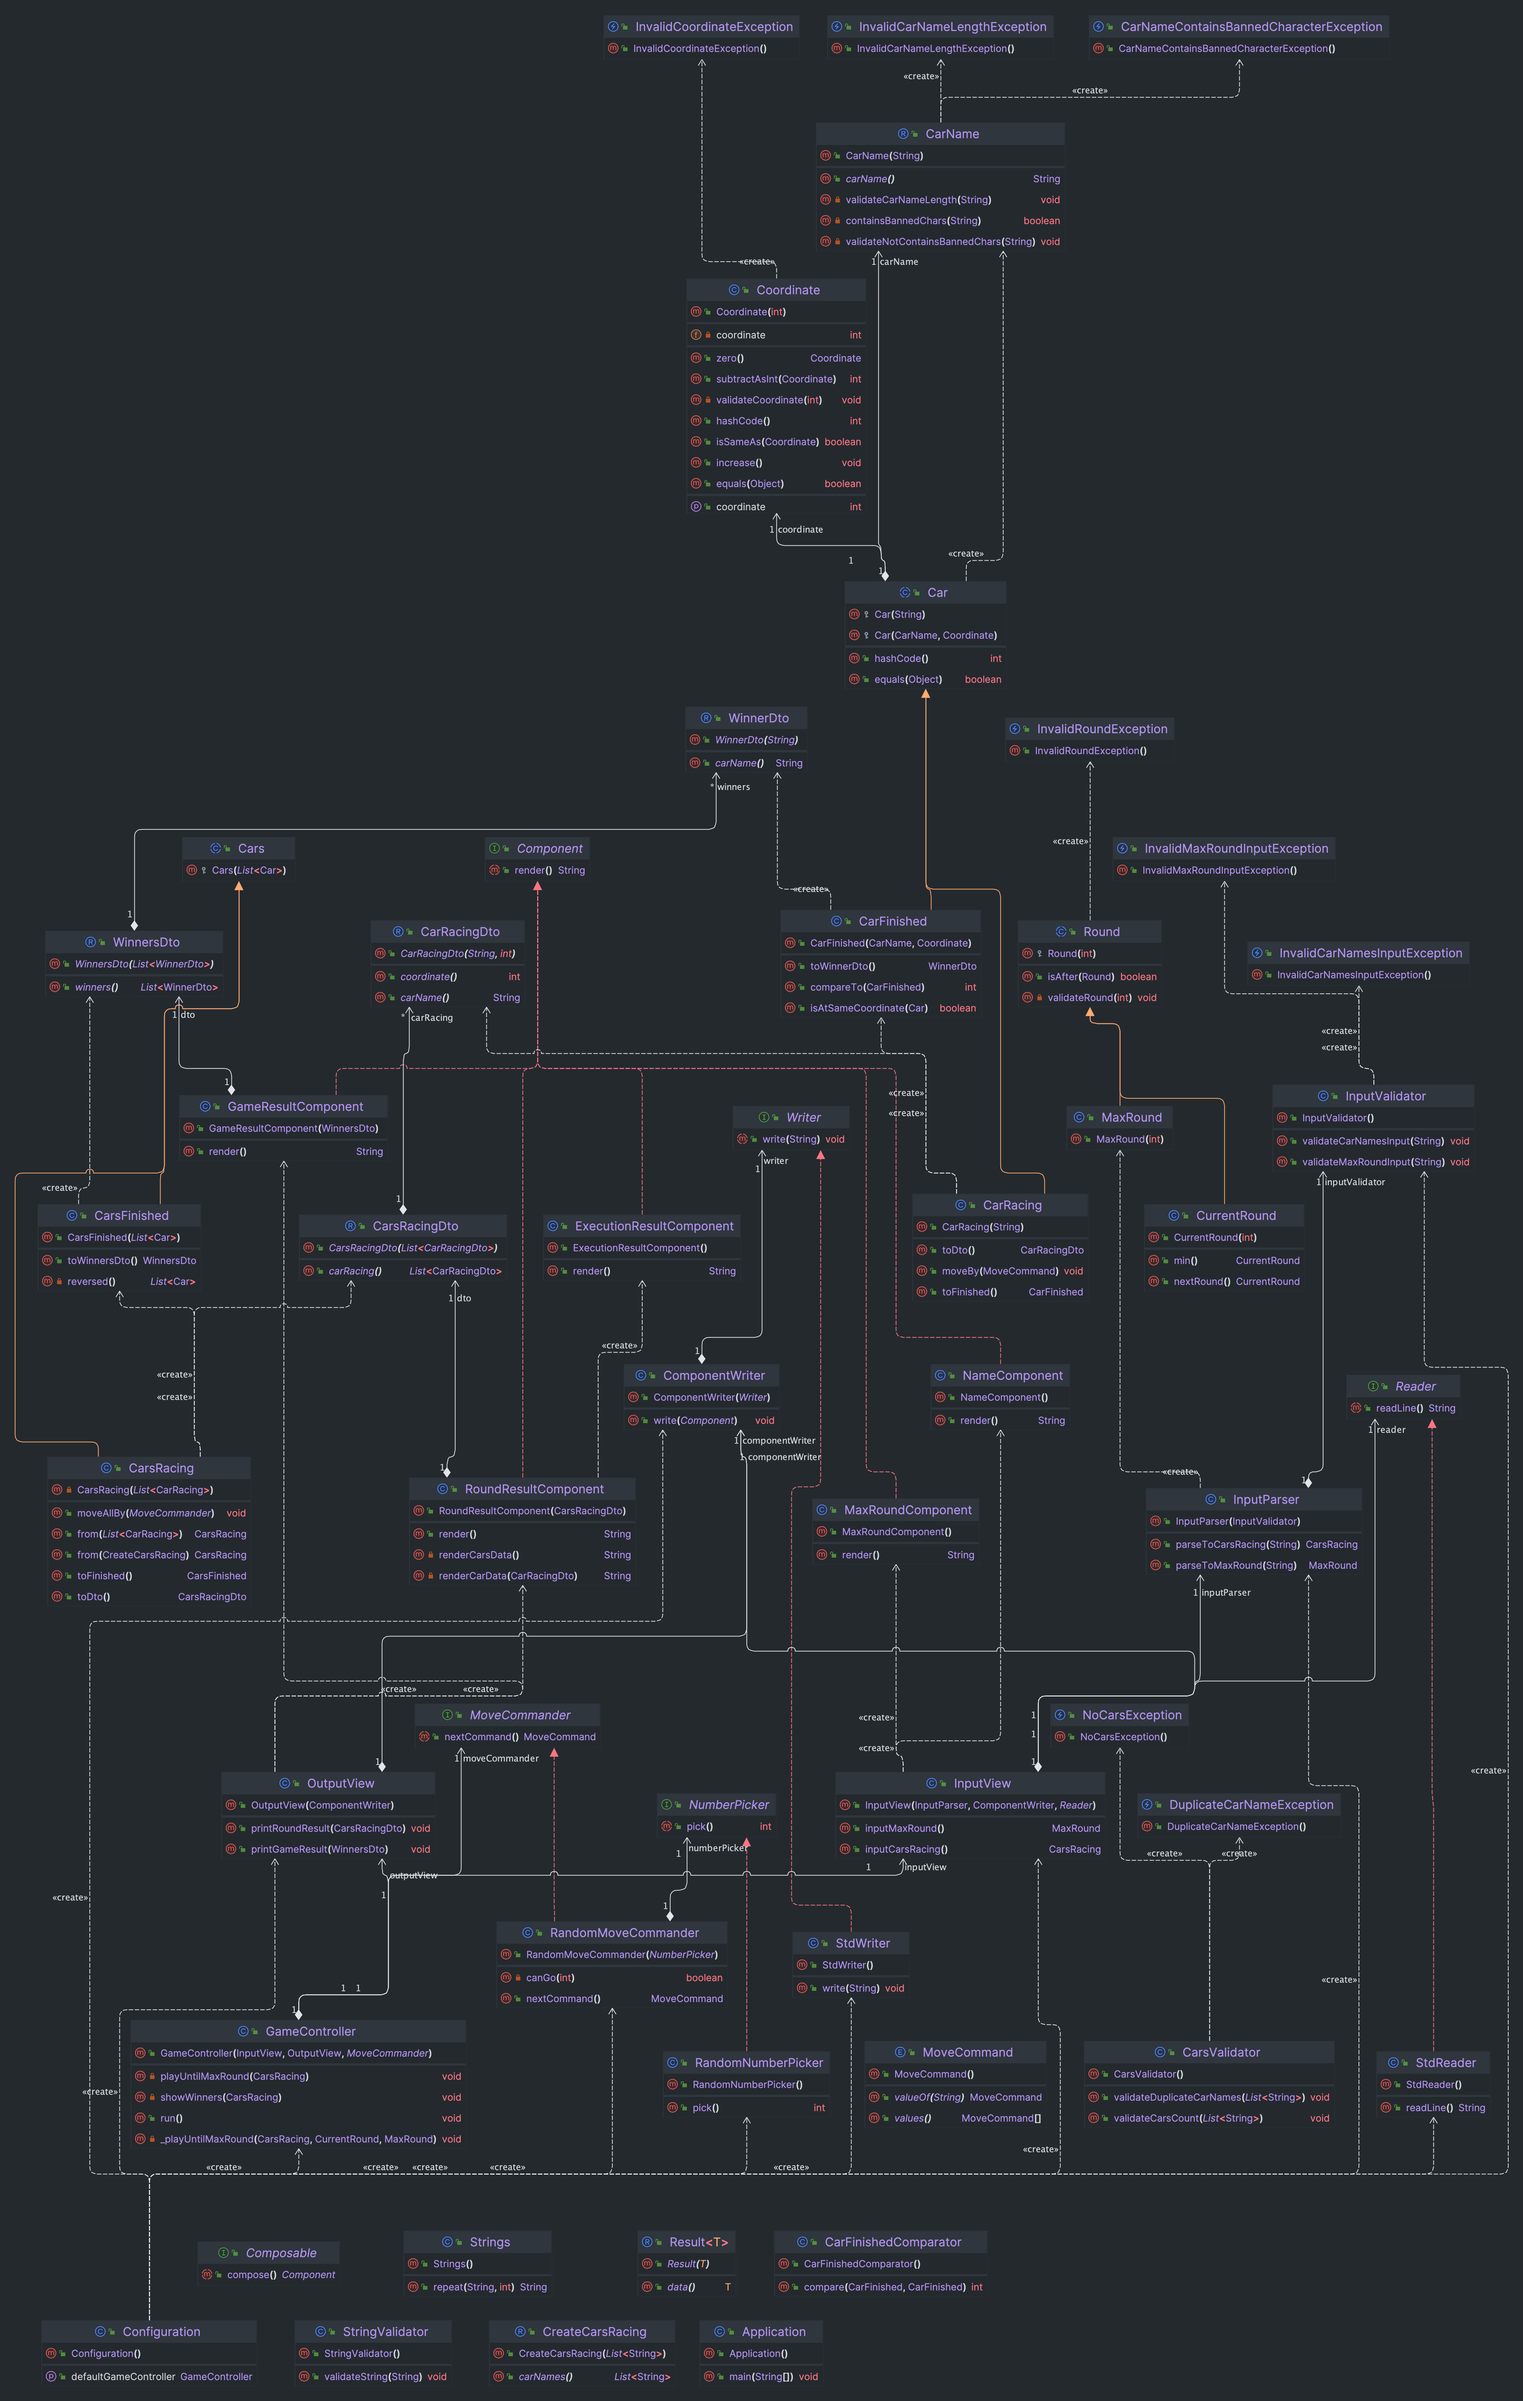
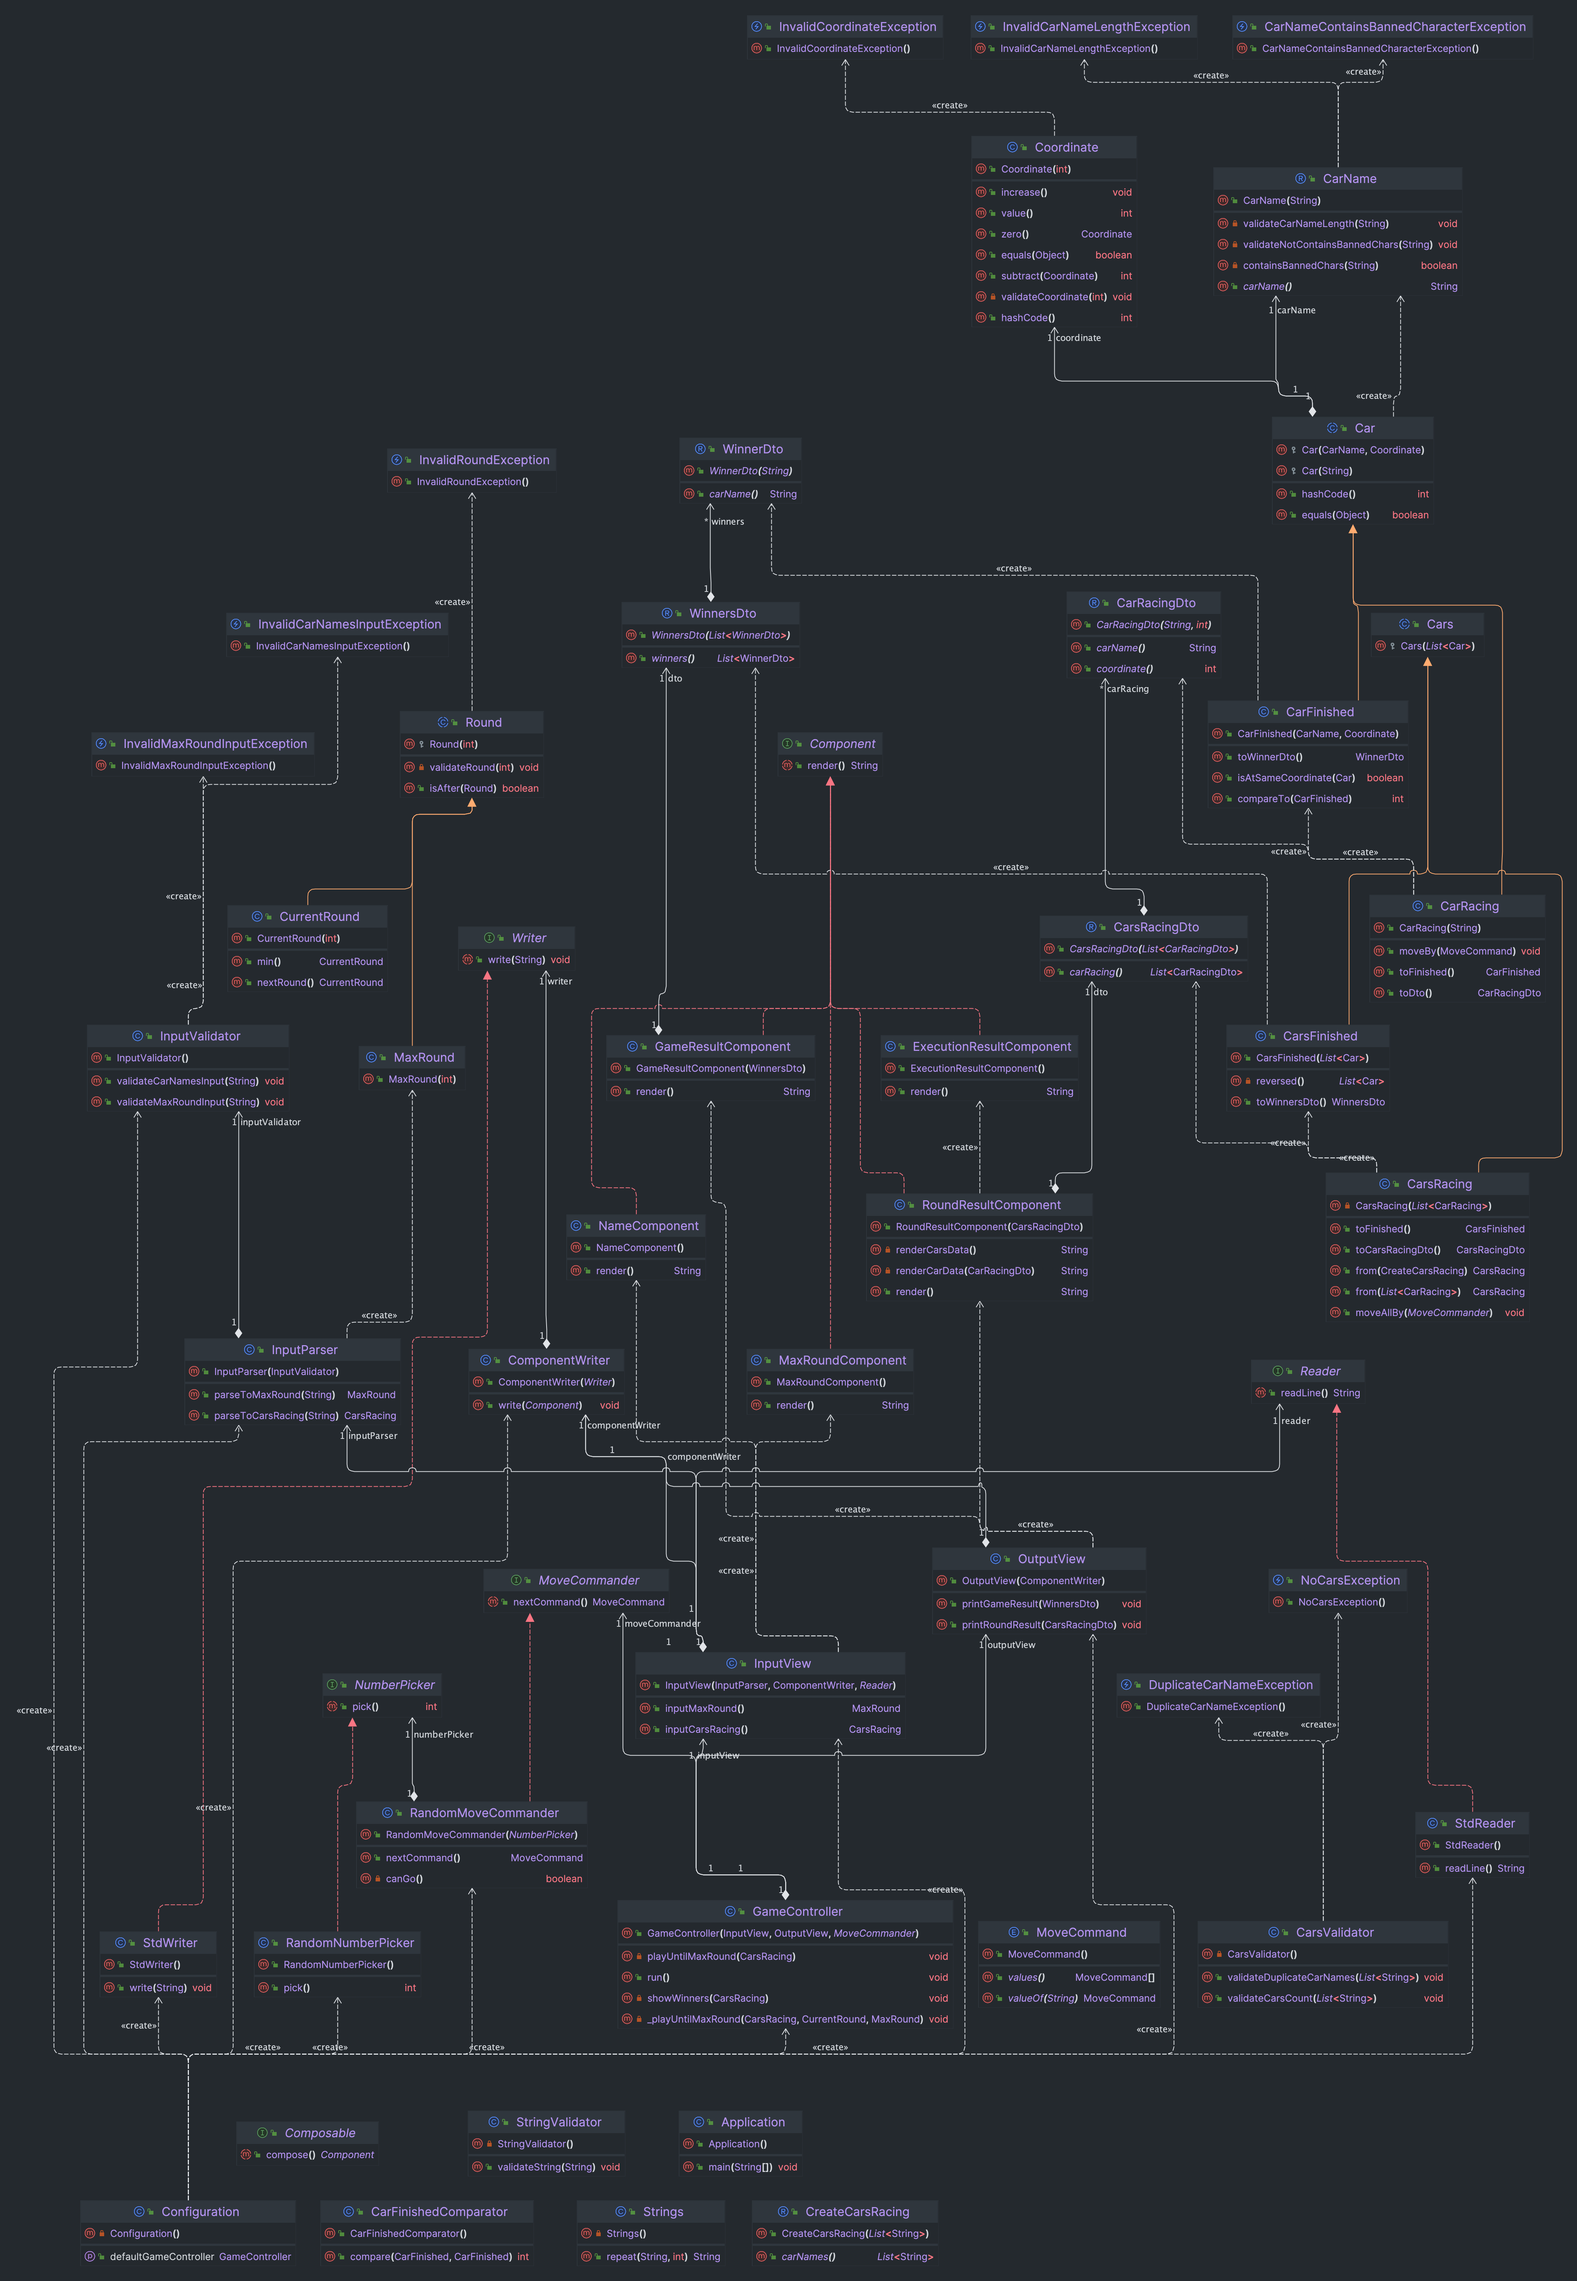
refactor: 줄 정리

diff --git a/src/main/java/racingcar/controller/GameController.java b/src/main/java/racingcar/controller/GameController.java
@@ -45,12 +45,12 @@ public final class GameController {
             return;
         }
         cars.moveAllBy(moveCommander);
-        final CarsRacingDto carsDto = cars.toDto();
+        final CarsRacingDto carsDto = cars.toCarsRacingDto();
         outputView.printRoundResult(carsDto);
         _playUntilMaxRound(cars, currentRound.nextRound(), maxRound);
     }
 
-    private void showWinners(CarsRacing cars) {
+    private void showWinners(final CarsRacing cars) {
         final WinnersDto winnersDto = cars.toFinished().toWinnersDto();
         outputView.printGameResult(winnersDto);
     }

diff --git a/src/test/java/racingcar/domain/move/CoordinateTest.java b/src/test/java/racingcar/domain/move/CoordinateTest.java
@@ -84,6 +84,7 @@ final class CoordinateTest {
 
         // then
         assertThat(coordinate1.value()).isEqualTo(input1 + 1);
+
     }
 
 

diff --git a/src/main/java/racingcar/view/validator/InputValidator.java b/src/main/java/racingcar/view/validator/InputValidator.java
@@ -21,3 +21,4 @@ public final class InputValidator {
         }
     }
 }
+
